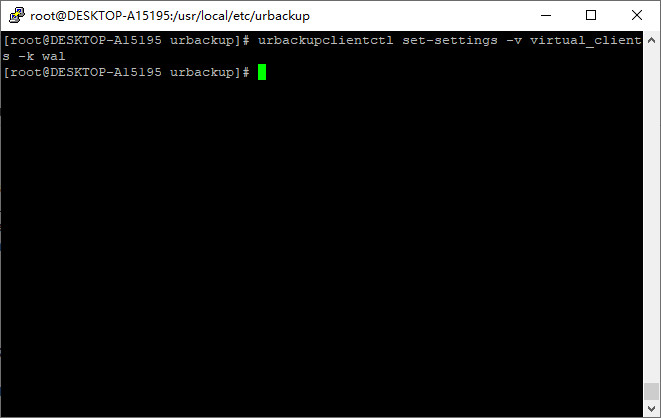
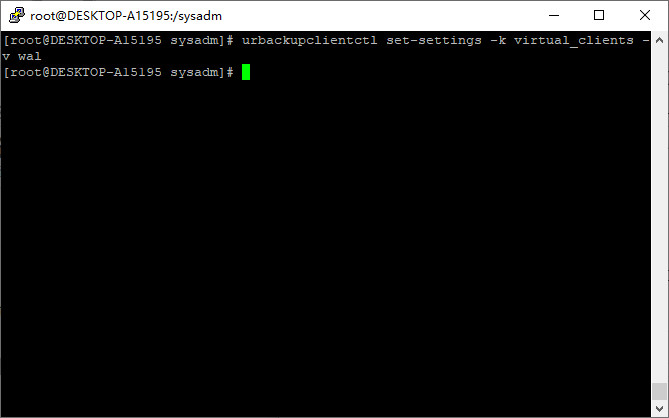
writing

Changed region(s): [[0.0, 0.0, 0.9682, 0.1866]]

diff --git a/11_付费课程/03.【玩转UrBackup系列】/202206091543_使用 UrBackup 备份和恢复 PostgreSQL/使用 UrBackup 备份和恢复 PostgreSQL.md b/11_付费课程/03.【玩转UrBackup系列】/202206091543_使用 UrBackup 备份和恢复 PostgreSQL/使用 UrBackup 备份和恢复 PostgreSQL.md
@@ -12,9 +12,19 @@
 
 
 
+### 测试环境
+
+操作系统：`Rocky Linux 8.6`
+
+数据库：`PostgreSQL 12`
+
+备份服务端：`UrBackup Server 2.4.14`
+
+备份客户端：`UrBackup Client 2.4.11`
 
 
-安装 `PostgreSQL` 
+
+### 安装 `PostgreSQL` 
 
 我们选择版本 `12` 来做为测试对象。
 
@@ -412,7 +422,11 @@ PS：如果你在测试过程中遇到错误或失败，那么仔细对照前面
 找到以下路径，编辑 `postgresbase.conf` 文件，将开关打开。
 
 ```
-/usr/local/etc/urbackup/postgresbase.conf
+vim /usr/local/etc/urbackup/postgresbase.conf
+```
+
+```
+POSTGRESQL_BASE_ENABLED=1
 ```
 
 图e01
@@ -570,29 +584,45 @@ systemctl status postgresql-12
 
 在 `postgresbase` 基本备份的基础上，利用虚拟子客户端来同时备份 `WAL` 日志。
 
-关于 `UrBackup` 的虚拟子客户端，通常是形如 `主机名[虚拟子名称]` 这种，在主机后面加个中括号，中括号里再放上虚拟子系统名称，比如 `[DE]
+关于 `UrBackup` 的虚拟子客户端，通常是形如 `主机名[虚拟子名称]` 这种，在主机后面加个中括号，中括号里再放上虚拟子系统名称，比如 `DESKTOP-XXXX[wal]` 。
+
+关于虚拟子客户端的详细介绍，可以参考查阅官方手册（我有中文版的手册）。
 
 
+
+官网方法步骤如下：
 
 找到以下路径，编辑 `postgresbase.conf` 文件，将开关打开。
 
-这和前面的操作是一样的，这就是基础备份。
+这和前面的操作是一样的，就是开启基础备份。
 
 ```
-/usr/local/etc/urbackup/postgresbase.conf
+vim /usr/local/etc/urbackup/postgresbase.conf
+```
+
+```
+POSTGRESQL_BASE_ENABLED=1
 ```
 
 图e01
 
 
 
-添加一个虚拟客户端，用于本地复制。
+添加一个虚拟子客户端，名称为 `wal` ，用于本地复制。
 
 ```
-urbackupclientctl set-settings -v virtual_clients -k wal
+urbackupclientctl set-settings -k virtual_clients -v wal
 ```
+
+注意，此处命令拼写官方有误！
 
 图e03
+
+
+
+经过我多次测试，这条命令并不好用，我是从服务端手动设定客户端添加一个虚拟子客户端的。
+
+图v08
 
 
 
@@ -602,6 +632,8 @@ urbackupclientctl set-settings -v virtual_clients -k wal
 local	replication	postgres	peer
 ```
 
+似乎默认就是允许本地复制的。
+
 图e02
 
 
@@ -609,7 +641,7 @@ local	replication	postgres	peer
 接下来在 `postgresql.conf` 文件中设定以下两个参数。
 
 ```
-# 预定式日志，最大发送进程数量，大于0即可
+# 预写式日志，最大发送进程数量，大于0即可
 max_wal_senders = 10
 ```
 
@@ -622,7 +654,7 @@ max_wal_senders = 10
 wal_level = replica
 ```
 
-此参数值与官网描述有出入，应该以配置文件描述为准。
+此参数值与官网描述有出入，可能是 `PostgreSQL` 版本不同的原因，应该以当前配置文件描述为准。
 
 图e05
 
@@ -631,7 +663,19 @@ wal_level = replica
 修改脚本文件 `postgresbase` ，将其中的 `pg_basebackup` 命令补全路径。
 
 ```
-/usr/bin/pg_basebackup
+vim /usr/local/share/urbackup/scripts/postgresbase
+```
+
+将
+
+```
+su postgres -c "cd ~; pg_basebackup --format=tar -X fetch -D -"
+```
+
+修改为
+
+```
+su postgres -c "cd ~; /usr/bin/pg_basebackup --format=tar -X fetch -D -"
 ```
 
 图e15
@@ -655,10 +699,14 @@ wal_level = replica
 若要配置 `PostgreSQL` ，将 `WAL` 文件归档到某个目录中，则应该将 `archive_mode` 参数打开。
 
 ```
+vim /var/lib/pgsql/12/data/postgresql.conf
+```
+
+```
 archive_mode = on
 ```
 
-并且将以下代码写入 `archive_command` 中。
+并且将以下归档命令代码写入 `archive_command` 中。
 
 ```
 archive_command = 'cp %p /var/lib/walarchive/incoming/%f; mv /var/lib/walarchive/incoming/%f /var/lib/walarchive/staging/%f'
@@ -689,6 +737,14 @@ urbackupclientctl add-backupdir --keep -d /var/lib/walarchive/backup -v wal
 
 
 
+可以通过以下命令查看备份目录。
+
+```
+urbackupclientctl list-backupdirs
+```
+
+
+
 添加备份前置脚本。
 
 ```
@@ -702,7 +758,7 @@ vim /usr/local/etc/urbackup/prefilebackup
 set -e
 exists() { [[ -e $1 ]]; }
 # Argument three not null means virtual client
-if [ $3 != 0 ] && exists /var/lib/walarchive/staging/*
+if [ "$3" != 0 ] && exists /var/lib/walarchive/staging/*
 then
 	mv /var/lib/walarchive/staging/* /var/lib/walarchive/backup/
 fi
@@ -745,25 +801,31 @@ chmod +x /usr/local/etc/urbackup/postfilebackup
 
 
 
-然后将 `WAL` 备份间隔配置为相对较小，将含有基础备份脚本的主客户端的备份间隔配置为相对较大，并通过备份窗口将其计划安排在不干扰数据库正常使用的时间范围内。
+然后将 `WAL` 备份间隔配置为相对较小，将含有基本备份脚本的主客户端的备份间隔配置为相对较大，并通过备份窗口将其计划安排在不干扰数据库正常使用的时间范围内。
+
+这是官网的原话翻译，一开始理解起来有些困难，实际上它是在说，将 `wal` 虚拟子客户端的备份周期设定得相对密集一些，同时将 `postgresqlbase` 基本备份周期设定得相对稀松一些，这样可以最大限度地保证备份的有效性。
+
+
+
+前面看上去一大堆的设定是超级复杂，实际上官方已经给我们准备好了一个设置脚本程序。
+
+```
+/usr/local/share/urbackup/scripts/setup-postgresbackup
+```
+
+图v10
+
+
+
+直接执行这个设置脚本程序，就可以很方便地跑完前面的所有设定。
+
+图v11
 
 
 
 
 
-
-
-
-
-
-
-
-
-
-
-
-
-**恢复方法（暂未验证）：**
+##### 官网超级复杂的恢复方法（暂未验证成功）
 
 首先通过以下命令行恢复基本备份。
 
@@ -771,9 +833,17 @@ chmod +x /usr/local/etc/urbackup/postfilebackup
 urbackupclientctl restore-start -b last -d urbackup_backup_scripts/postgresbase
 ```
 
+这个似乎存在错误，因为通过 `restore-start` 来恢复备份是需要事先存在本机上的备份目录和备份文件的。
+
+然而我们之前所做的一切都没有在本机上产生备份目录和文件，至少 `postgresqlbase` 的基本备份并不在本机上。
+
+即使你将备份拷贝到了客户端本机上，那么由于无法确认备份目录及备份令牌而导致无法识别备份。
+
+图v09
 
 
-然后将最新的一组 `WAL` 文件复制到数据库服务器并按照恢复小节 `25.3.4` 的说明
+
+然后将最新的一组 `WAL` 文件复制到数据库服务器并按照 `PostgreSQL` 官方手册中恢复小节 `25.3.4` 的说明操作。
 
 此处以 `PostgreSQL 12` 版本为例，其他版本的章节数有些许出入。
 
